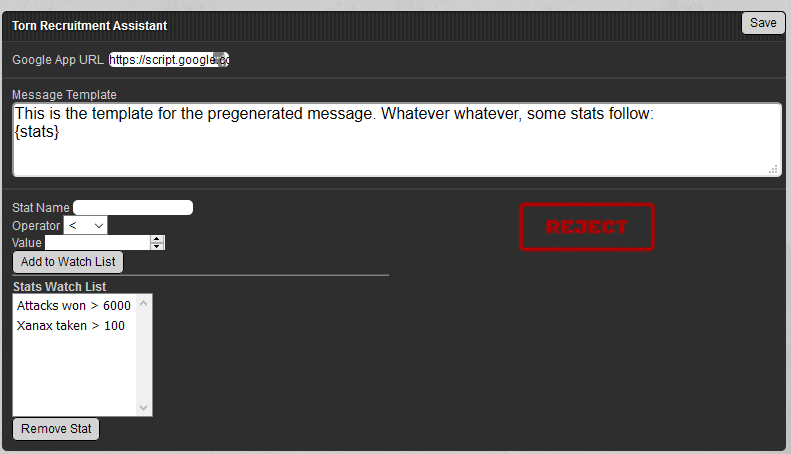
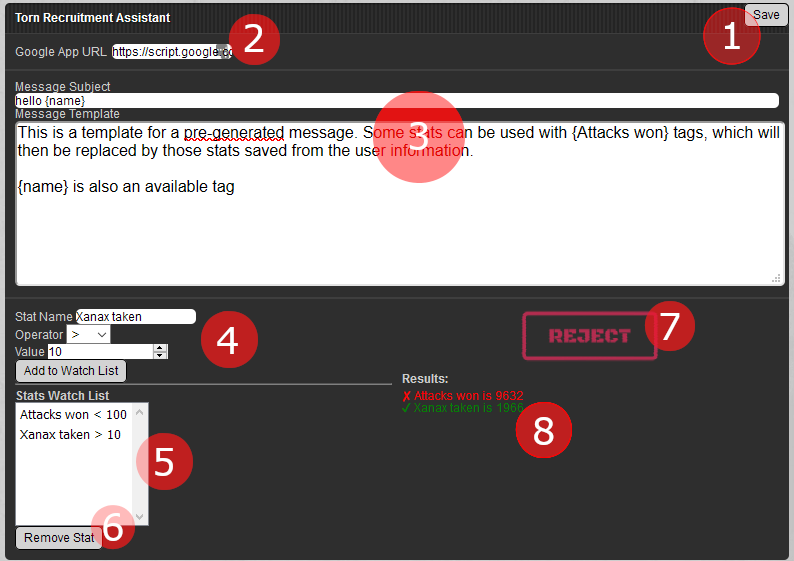
Added more documentation for RecruitTracker

diff --git a/RecruitTracker/README.md b/RecruitTracker/README.md
@@ -42,9 +42,31 @@ Others (-- or formatted time): As shown
 ![Step 4 Image](images/step4.png)
 
 After this point, you should receive a URL, this is the URL for your web application and **needs** to be provided in 
-the userscript settings
+the userscript settings.
+
+### Setting up the sheet
+
+For data to be saved, a sheet named `Information` needs to exist. Inside this sheet the first row is used for searching
+the column where different values need to be saved, with the first `5` rows reserved for script functionality.
+
+The first 5 columns need to be:
+1. id
+1. name
+1. lastScouted
+1. lastDecision
+1. lastSeenBy
+
+From column 6 you can start setting up the columns you want to save to your sheet. The text should **exactly** match the
+name of the stat in the `personalstats.php` page, otherwise stats will not be able to be mapped properly.
+
+As an example, the following sheet tracks the `Attacks won`, `Energy refills`, `Xanax taken`, `Fraud` (crimes) 
+and `Total respect` for users scouted with the script. 
+
+![Google Sheet Setup](images/sheetsetup.png)
 
 ## Using the script
+
+### In Personal Stats page
 
 Once the script has been installed, the following UI should appear whenever you open the personal stats page of any player
 in Torn:
@@ -54,24 +76,74 @@ in Torn:
 Numbered elements are:
 1. Save changes button
 1. Google Application URL where data will be sent
-1. Message template that will be used to generate the final message based on watched stats
+1. Message and Subject template that will be used for filling the message
 1. Controls to add a specific stat to the Stats Watch list
 1. Current Stats Watch list
 1. Button to remove selected stat from the Stats Watch list
-1. Decision area
+1. Decision visual indicator. Clicking on this button will bring you to the `Messages` page
+1. Comparison Results
 
-### Process
+#### Process
 
-The current process the script executes is the following:
+The current process the script executes the following once the page finishes loading:
 
-1. Once the page finishes loading, it will go over any stat added to the Stats Watch list and look for the corresponding
-value on the player's stats
+1. Query the Google Sheet App to validate if this player has already been messaged or not. If the application states 
+that it has been messaged, then it will show a `Messaged` image in the `Decision Visual Indicator` section.
+1. It will go over any stat added to the Stats Watch list and look for the corresponding value on the player's stats
 1. If ALL requirements are met, one of two decisions are displayed:
     1. Reject: The player does not meet your criteria
     1. Recruit: The player meets your criteria
 1. Once a decision is shown, the script will send data to the web application with the player information and the 
 current decision
-1. If the `Recruit` decision is displayed, the message template you set will be shown under the image. You will also be 
-able to click on the `Recruit` button to copy the pre-generated message to your clipboard.
-    1. If the `Recruit` button is clicked, another request will be sent to the web application to update the decision 
-    to: `Messaged`. This is useful to keep track of who's been contacted already or not. 
+1. A summary of compared stats will be displayed under the `Decision Visual Indicator` for quick reference into which 
+criteria was met or not
+1. A reference to this player is saved on the script's local storage. That way, when going back to the messages page,
+the reference to the player will be used to prefill a message while the script retrieves user information from the
+Google Sheet App
+
+### In Messages page
+
+The messages page gives you controls to fill a message based on your template and the selected user. This UI queries the
+google sheet application for any player that has been flagged as "Recruitable" or "Rejected" so that you can decide who
+to send a message to.
+
+![UI Message Overview](images/ui2.png)
+ 
+Some of the same controls are in this page too, with a couple of new additions:
+
+1. Dropdown box for user selection
+1. `Fill Message` button to create the message with the template, subject and player data
+
+#### Process
+
+Once the `Messages` page loads:
+
+1. The dropdown (1) will be populated with the last seen user in the script's local storage
+1. The script will query the Google Sheet App to retrieve those records that have a status of `Rejected` or `Recruitable`.
+ Once the request returns with returns, the dropdown (1) will be updated to include the results
+1. When the `Fill Message` (2) button is clicked, the script will fill out the message controls based on the following:
+    1. `Message Subject` value will be processed and copied to `Subject`
+    1. `Message Template` value will be processed and copied to the message body
+    
+##### Message processing
+
+When filling out the message form, some processing is done in the templates to ensure that some tags can be replaced with
+user information. This information is taken from the Google Sheet App (or the last reference to the player), and as such
+it is important to setup the Google Sheet App with the data that you think its important for your recruitment process.
+
+For the replacement process to work, tags can be used in the format of `{stat}` in either the Message Subject or 
+Message template fields.
+
+The following tags are able to be used:
+* {name}
+* {id}
+* {player stat as it appears in the personal stats page}
+
+ As an example, if you wanted to create a message that includes the number of attacks a player won, then the following 
+ template could be used:
+ 
+ `This is a templated message for {Attacks won} attacks won for {name}`
+ 
+ The above template for a player named `Hello` with 2000 Attacks won on their belt would look like:
+ 
+ `This is a templated message for 2000 attacks won for Hello`
